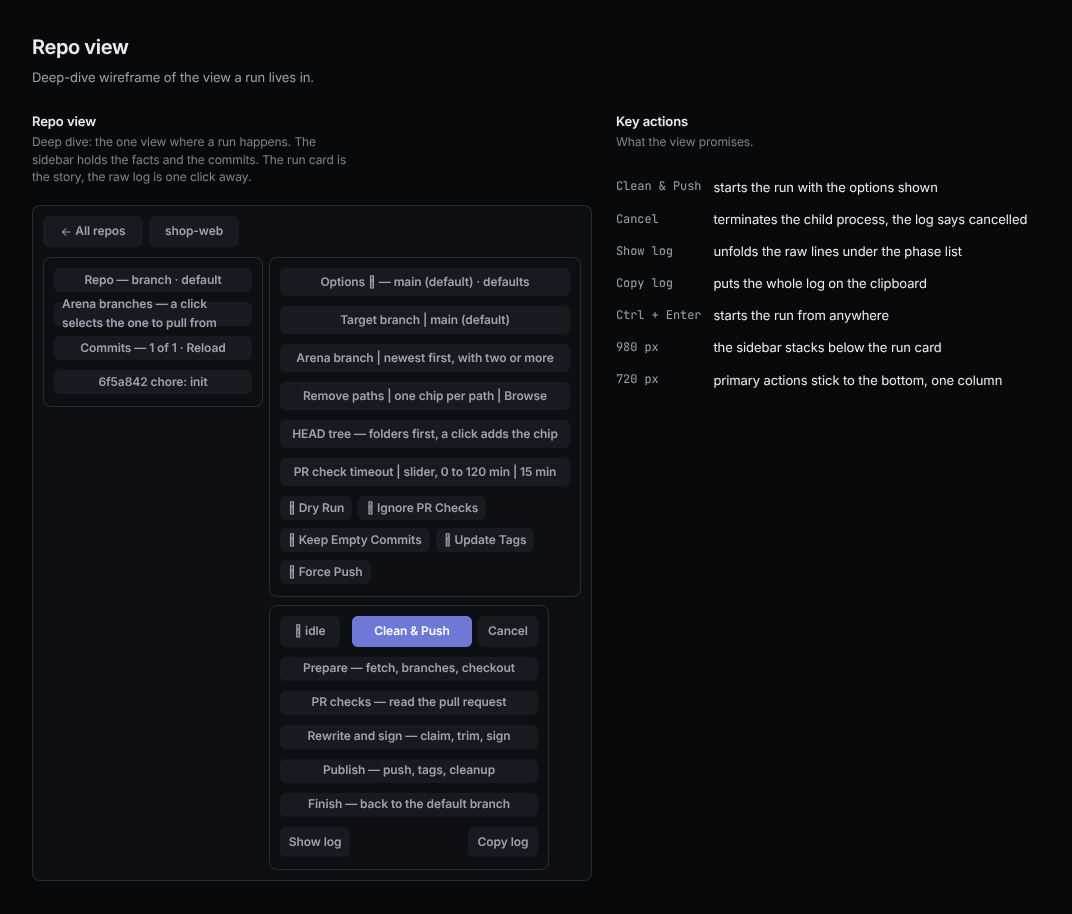
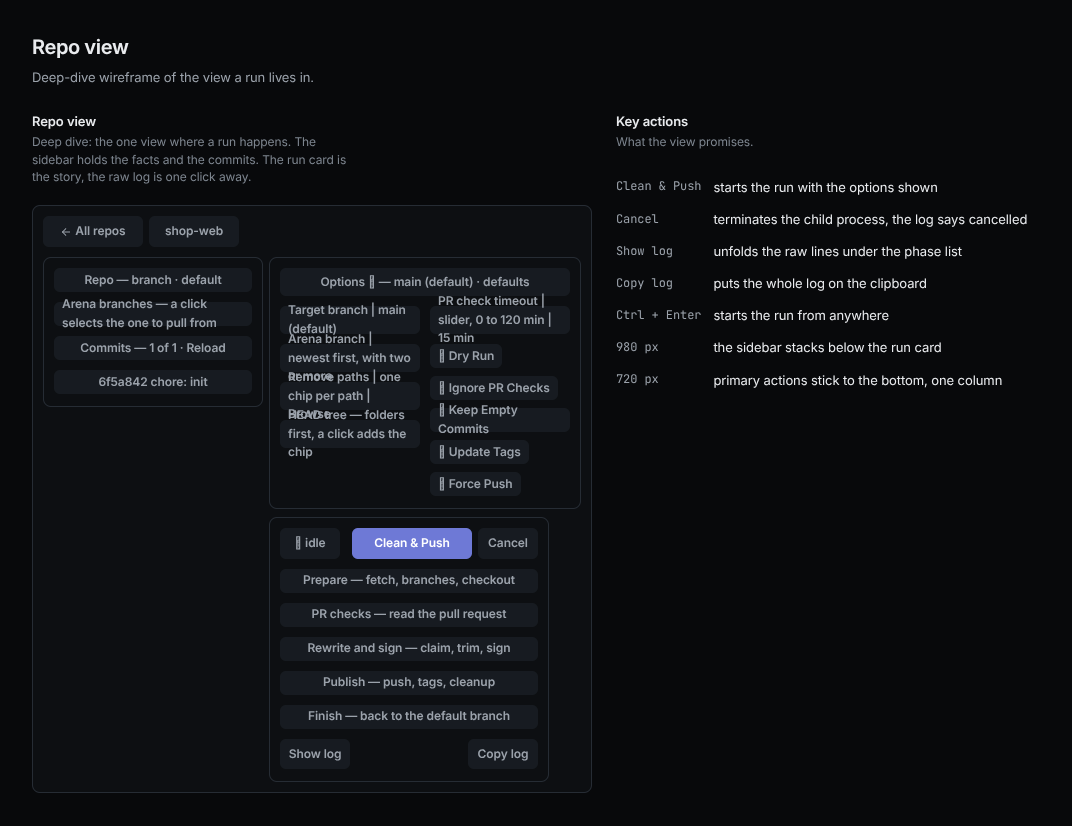
feat(ui): selects left, timeout and checks right in the options card

diff --git a/ui/static/index.html b/ui/static/index.html
@@ -336,6 +336,7 @@
 
   /* two columns: a field with its description needs about 360 px, which four cells never give */
   .options { display: grid; grid-template-columns: repeat(2, minmax(0, 1fr)); gap: 0 20px; }
+  .opt-col { min-width: 0; }
   .opt { padding: 8px 2px; border-bottom: 1px solid var(--line); min-width: 0; }
   .opt[hidden] { display: none; }
   /* the settings page labels its token field with a label and a short note */
@@ -719,33 +720,37 @@
             <span class="caret"><span class="ico-svg" data-icon="chevron-right" aria-hidden="true"></span></span>
           </button>
           <div class="card-body options" id="options">
-            <div class="opt row" id="opt-branch">
-              <label for="branch">Target branch</label>
-              <select class="field mono-field" id="branch" title="The default branch runs via the arena branch. A named branch is cleaned in place."></select>
-            </div>
-            <div class="opt row" id="opt-arena" hidden>
-              <label for="arena">Arena branch</label>
-              <select class="field mono-field" id="arena" title="The session this run cleans, newest activity first."></select>
-            </div>
-            <div class="opt row" id="opt-paths">
-              <label for="pathin">Remove paths</label>
-              <div class="chips" id="chips" title="git filter-repo removes each path from every ref.">
-                <input id="pathin" placeholder="add a file or folder…" spellcheck="false" autocomplete="off" aria-label="Add a path to remove">
+            <div class="opt-col">
+              <div class="opt row" id="opt-branch">
+                <label for="branch">Target branch</label>
+                <select class="field mono-field" id="branch" title="The default branch runs via the arena branch. A named branch is cleaned in place."></select>
               </div>
-              <button type="button" class="link-btn" id="browse" aria-expanded="false" aria-controls="tree">Browse</button>
-              <div class="tree" id="tree" role="tree" aria-label="Files at HEAD" hidden></div>
+              <div class="opt row" id="opt-arena" hidden>
+                <label for="arena">Arena branch</label>
+                <select class="field mono-field" id="arena" title="The session this run cleans, newest activity first."></select>
+              </div>
+              <div class="opt row" id="opt-paths">
+                <label for="pathin">Remove paths</label>
+                <div class="chips" id="chips" title="git filter-repo removes each path from every ref.">
+                  <input id="pathin" placeholder="add a file or folder…" spellcheck="false" autocomplete="off" aria-label="Add a path to remove">
+                </div>
+                <button type="button" class="link-btn" id="browse" aria-expanded="false" aria-controls="tree">Browse</button>
+                <div class="tree" id="tree" role="tree" aria-label="Files at HEAD" hidden></div>
+              </div>
             </div>
-            <div class="opt row" id="opt-timeout">
-              <label for="timeout">PR check timeout</label>
-              <input class="slider" id="timeout" type="range" min="0" max="9" step="1" value="3" title="How long the run waits for the pull request checks; 0 does not wait.">
-              <output class="readout" id="timeout-out" for="timeout">15 min</output>
-            </div>
-            <div class="opt checks" id="checks" style="grid-column:1/-1">
-              <label class="check" title="Prints every step it would take and writes nothing."><input type="checkbox" data-opt="dry_run">Dry Run</label>
-              <label class="check" title="Publishes even when the pull request still has running or failing checks."><input type="checkbox" data-opt="skip_pr_check">Ignore PR Checks</label>
-              <label class="check" title="Keeps commits that would be empty once the removed paths are gone."><input type="checkbox" data-opt="keep_empty">Keep Empty Commits</label>
-              <label class="check" title="Moves the tags to the rewritten commits. Unchecked, they stay on the old ones."><input type="checkbox" data-opt="update_tags" checked>Update Tags</label>
-              <label class="check danger" title="Pushes even when the push would drop commits that are on the default branch."><input type="checkbox" data-opt="force">Force Push</label>
+            <div class="opt-col">
+              <div class="opt row" id="opt-timeout">
+                <label for="timeout">PR check timeout</label>
+                <input class="slider" id="timeout" type="range" min="0" max="9" step="1" value="3" title="How long the run waits for the pull request checks; 0 does not wait.">
+                <output class="readout" id="timeout-out" for="timeout">15 min</output>
+              </div>
+              <div class="opt checks" id="checks">
+                <label class="check" title="Prints every step it would take and writes nothing."><input type="checkbox" data-opt="dry_run">Dry Run</label>
+                <label class="check" title="Publishes even when the pull request still has running or failing checks."><input type="checkbox" data-opt="skip_pr_check">Ignore PR Checks</label>
+                <label class="check" title="Keeps commits that would be empty once the removed paths are gone."><input type="checkbox" data-opt="keep_empty">Keep Empty Commits</label>
+                <label class="check" title="Moves the tags to the rewritten commits. Unchecked, they stay on the old ones."><input type="checkbox" data-opt="update_tags" checked>Update Tags</label>
+                <label class="check danger" title="Pushes even when the push would drop commits that are on the default branch."><input type="checkbox" data-opt="force">Force Push</label>
+              </div>
             </div>
           </div>
         </section>

diff --git a/scripts/design_boards.py b/scripts/design_boards.py
@@ -308,12 +308,17 @@ def flow_board(_: dict[str, bytes]) -> str:
 
 
 def wireframe_board(_: dict[str, bytes]) -> str:
+  column = '<div class="col" style="flex:1;gap:8px;align-items:stretch">'
   options = (
     block("Options ▾ — main (default) · defaults", height=28)
+    + '<div class="bar" style="align-items:flex-start;gap:10px">'
+    + column
     + block("Target branch | main (default)", height=28)
     + block("Arena branch | newest first, with two or more", height=28)
     + block("Remove paths | one chip per path | Browse", height=28)
     + block("HEAD tree — folders first, a click adds the chip", height=28)
+    + "</div>"
+    + column
     + block("PR check timeout | slider, 0 to 120 min | 15 min", height=28)
     + '<div class="bar" style="flex-wrap:wrap">'
     + "".join(
@@ -326,7 +331,7 @@ def wireframe_board(_: dict[str, bytes]) -> str:
         "☐ Force Push",
       )
     )
-    + "</div>"
+    + "</div></div></div>"
   )
   run = (
     '<div class="bar">'

diff --git a/docs/design.md b/docs/design.md
@@ -58,7 +58,7 @@ The one design record for the arena-cleanup web app. The sections follow the nem
 
 - Spacing scale: 2, 4, 6, 8, 10, 12, 16, 20, 24, and 32 px, with 1 px for borders.
 - Page padding `--pad`: 20 px, 16 px at 980 px and below, 14 px at 720 px and below.
-- Breakpoints: the options sit in two columns at every width above 980 px. 980 px keeps one column and stacks the sidebar below the run card. 720 px switches to the phone ramp, 44 px targets, and stacked rows.
+- Breakpoints: the options sit in two columns at every width above 980 px. The left column holds Target branch, Arena branch, and Remove paths. The right column holds PR check timeout and the checkboxes. 980 px keeps one column in that order and stacks the sidebar below the run card. 720 px switches to the phone ramp, 44 px targets, and stacked rows.
 - Radius `--r` 10 px for cards, 8 px for buttons and fields, 999 px for pills.
 
 ### Theme and motion
@@ -139,5 +139,6 @@ The one design record for the arena-cleanup web app. The sections follow the nem
 - Accepted 2026-10-22: the card and the sidebar show how far each arena branch is ahead of the default branch. The clone's own drift stays out of sight. Nobody commits in the container, and the engine handles that divergence itself.
 - Accepted 2026-10-22: the primary button reads Clean & Push. The phase list keeps Publish for the push, tags, and cleanup step.
 - Accepted 2026-10-22: a tree selector for Remove paths. It reads `git ls-tree` of HEAD in the clone, so it works for path repos and never calls GitHub. File contents stay out. A path only old commits carried stays a typed chip.
+- Accepted 2026-10-23: the options card puts the selects and Remove paths left, PR check timeout and the checkboxes right. Two column wrappers flow on their own, so a long path list never pushes the timeout down.
 - Accepted 2026-10-23: the page draws the checkboxes. `appearance: none` drops the browser box, so the boxes match the select and the fields in every browser.
 - Accepted 2026-10-22: the card Remove X moves from the action row to the top right corner. At rest it is a bare glyph, so the primary button stands alone. The red frame returns on hover, on press, and while armed.

diff --git a/CHANGELOG.md b/CHANGELOG.md
@@ -32,7 +32,7 @@ and the project uses [Semantic Versioning](https://semver.org/spec/v2.0.0.html).
 - The repo sidebar is 320 px wide. It lists the commits below the repo facts and the arena rows. The HEAD block is gone. Below 980 px it stacks under the run card, and the commit list grows with the page.
 - A shallow history: one Back leaves a sub-view, the next one leaves the page.
 - A click on a sidebar arena row selects the arena branch the run pulls from. The Arena branch select and the row follow each other.
-- The options card: one row per option, no hint texts, no task note. Checkboxes Dry Run, Ignore PR Checks, Keep Empty Commits, Update Tags (on by default), and Force Push replace the switches. Keep arena branch is gone. PR check timeout is a slider with ten stops and a readout. The page draws the checkboxes: a 16 px box, the accent fill, and a Lucide check.
+- The options card: one row per option, no hint texts, no task note. Checkboxes Dry Run, Ignore PR Checks, Keep Empty Commits, Update Tags (on by default), and Force Push replace the switches. Keep arena branch is gone. PR check timeout is a slider with ten stops and a readout. The page draws the checkboxes: a 16 px box, the accent fill, and a Lucide check. Above 980 px the selects and Remove paths sit left, PR check timeout and the checkboxes right.
 - A managed clone resets to origin before every run. The server fetches, checks out the default branch, resets hard, and drops local `arena/*` copies. The page has no Reset button, dirty chip, or On divergence control, and `--on-divergence` stays a CLI flag.
 - The app copy says repo and repos.
 - The claim rules come from the global git config keys `arena.claim-email` and `arena.claim-name`. The constants are the fallback. The container seeds the identity only while git config is empty.
